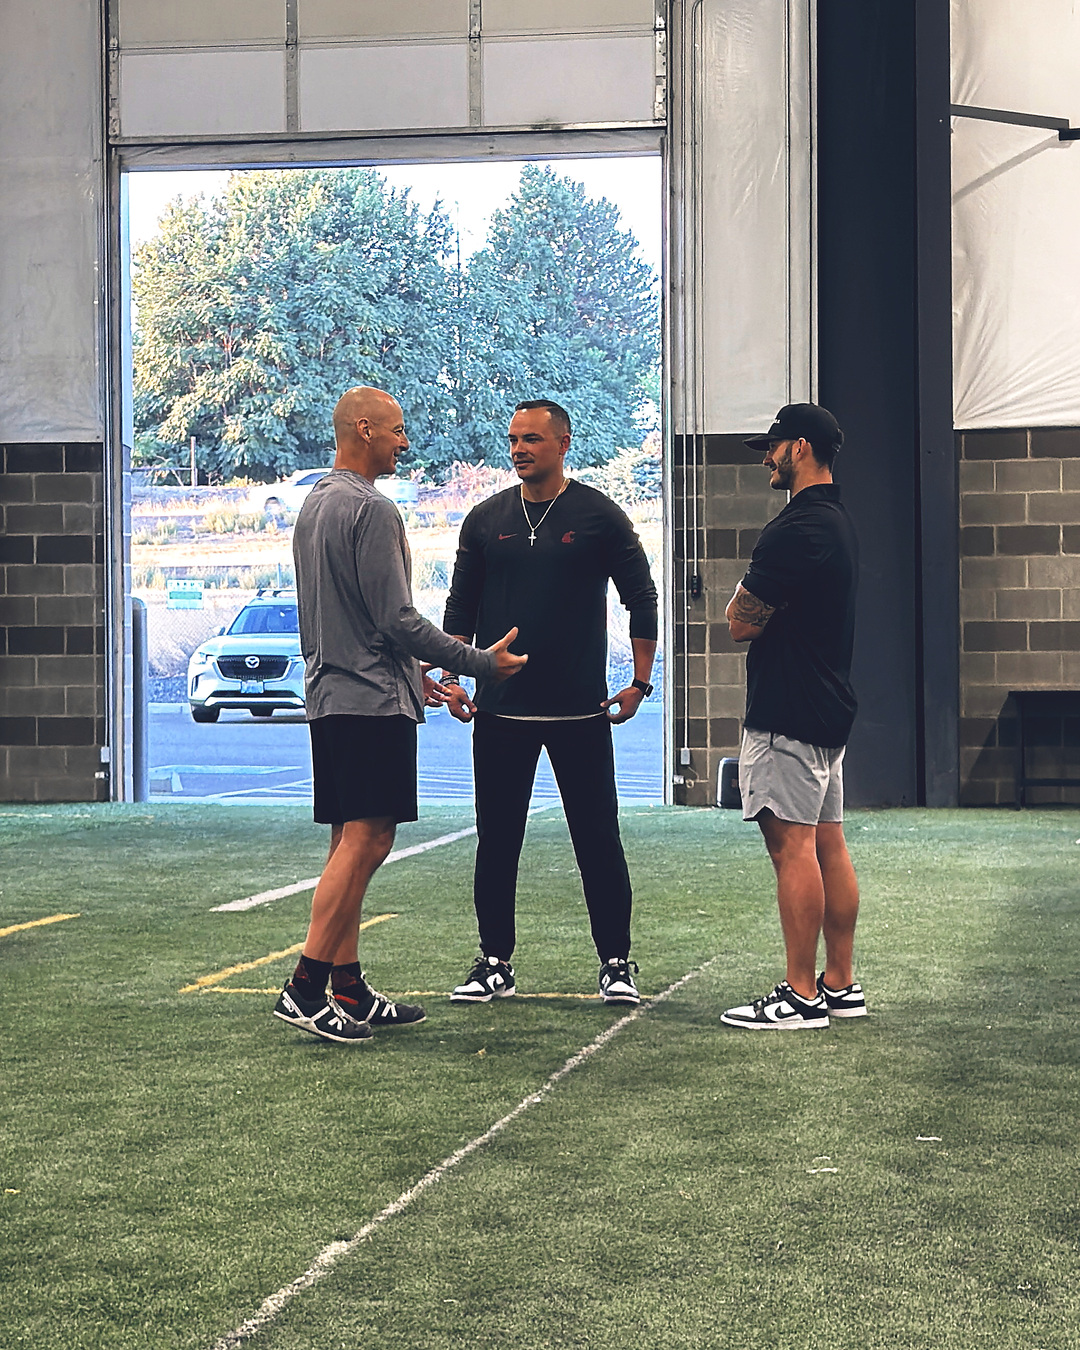
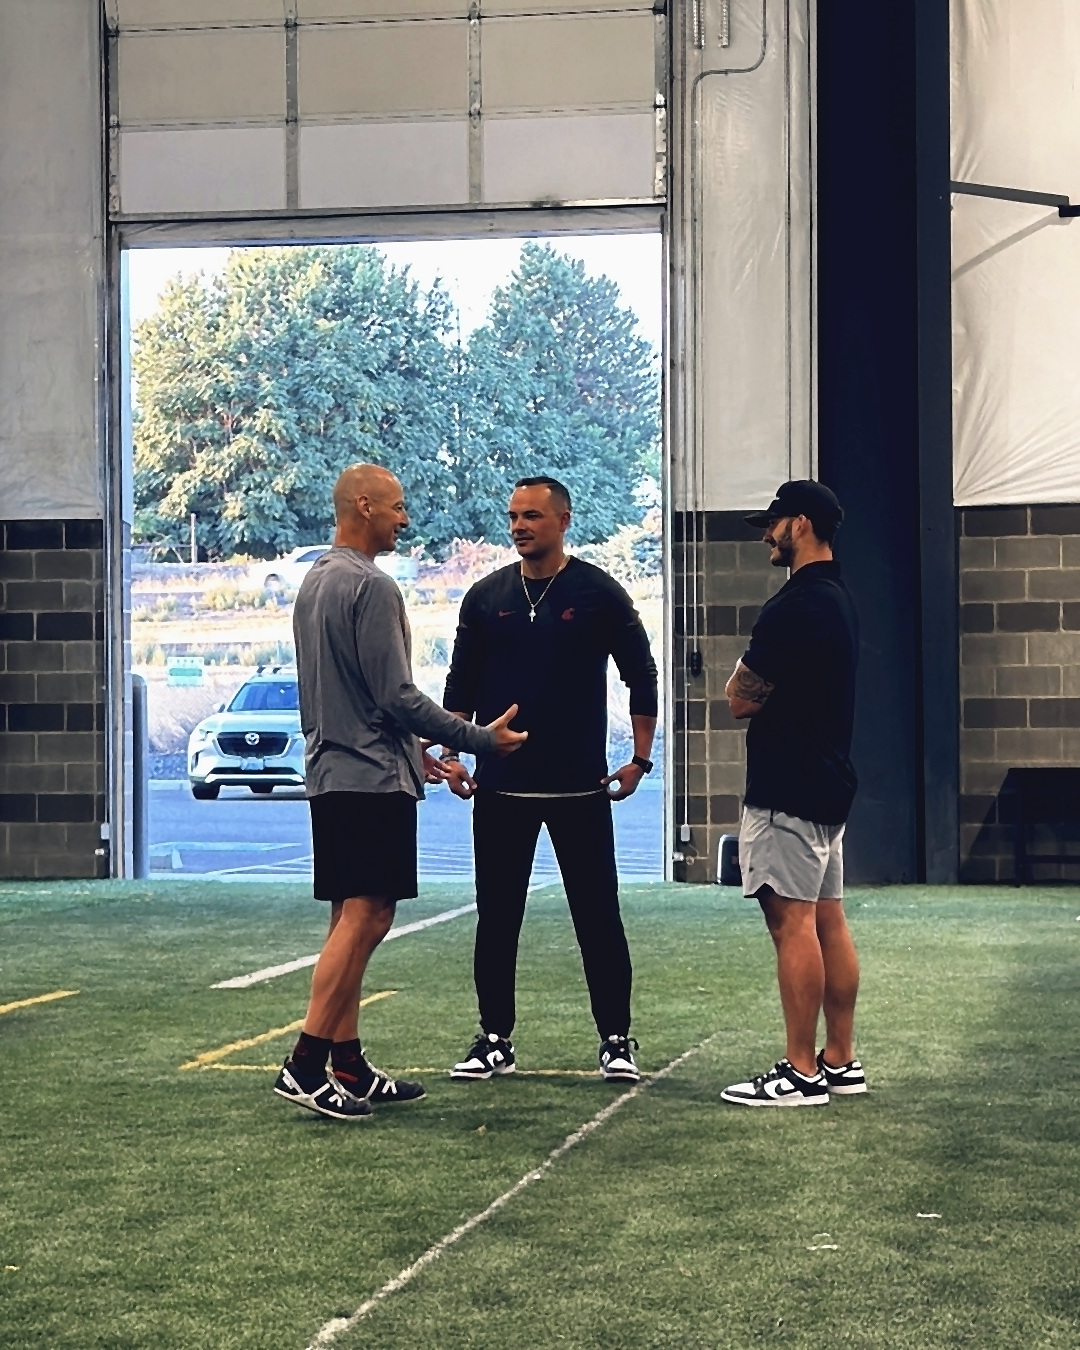
Coaches-built real photo v3

diff --git a/social/templates/fall-2026/coaches-built-real.html b/social/templates/fall-2026/coaches-built-real.html
@@ -1,7 +1,7 @@
 <!doctype html><html><head><meta charset="utf-8"><link rel="stylesheet" href="base.css">
 <style>
 .photo{position:absolute;inset:0}.photo img{width:100%;height:100%}
-.h{position:absolute;left:0;right:0;top:150px;text-align:center;font-family:var(--display);font-size:136px;line-height:.92;color:#16140F;text-transform:uppercase;letter-spacing:.01em}
+.h{position:absolute;left:0;right:0;top:84px;text-align:center;font-family:var(--display);font-size:118px;line-height:.92;color:#16140F;text-transform:uppercase;letter-spacing:.01em}
 .h b{color:#E81C23;font-weight:400}
 </style></head><body><div class="canvas">
 <div class="photo"><img src="assets/coaches-3606-bright.jpg"></div>
